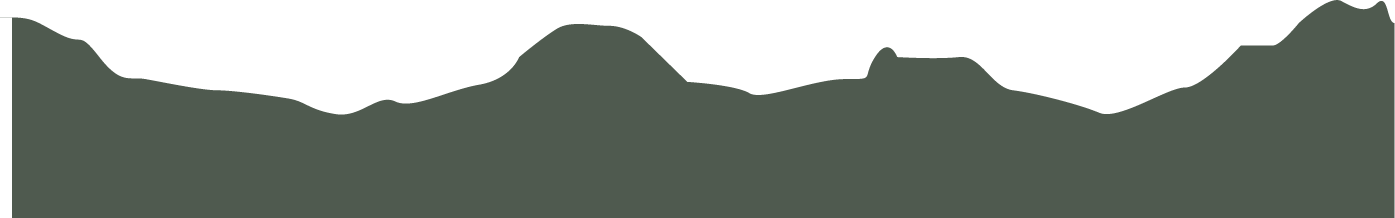
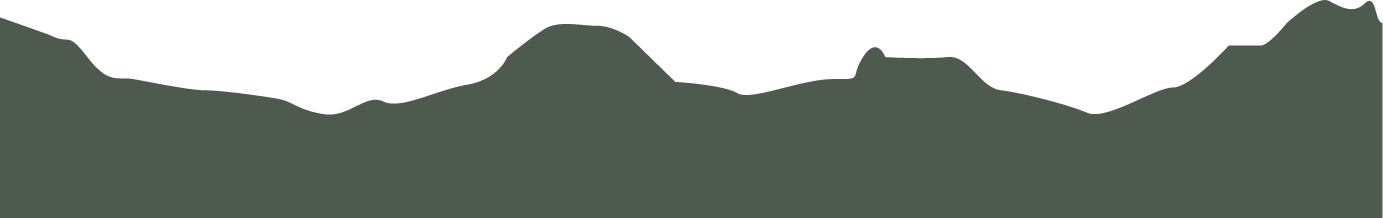
Adapative
Widths are percentages, always in center of browser.

diff --git a/css_animation/volcano_2.html b/css_animation/volcano_2.html
@@ -22,7 +22,7 @@
   filter: progid:DXImageTransform.Microsoft.gradient( startColorstr='#454fa0', endColorstr='#1b0009',GradientType=0 ); /* IE6-9 */
 
   height: 782px;
-  width: 1371px;
+  width: 100%;
 
   position: relative;
 }
@@ -38,20 +38,21 @@
 .stars{
   background: transparent url('img/stars.png') no-repeat center center;
   opacity: 0;
+  width: 100%;
 }
 
 .mountain{ background: transparent url('img/volcano.png') no-repeat bottom center; }
 .crater{
-  background: transparent url('img/crater.png') no-repeat 608px 262px;
+  background: transparent url('img/crater.png') no-repeat 50% 262px;
 }
 
 .smoke{
   background: #F00;
   position: absolute;
-    left: 648px;
+    left: 48%;
     top: 320px;
-  transform: translateX(50%);
 }
+
 .smoke ul li{
   border-radius: 50%;
   list-style: none;
@@ -128,8 +129,8 @@
   100%    {top: -300px; opacity: 0; left: 30px;}
 }
 
-.trees-01{ background: transparent url('img/trees2.png') no-repeat bottom center; }
-.trees-02{ background: transparent url('img/trees1.png') no-repeat bottom center; }
+.trees-01{ background: transparent url('img/trees2.png') repeat-x bottom center; }
+.trees-02{ background: transparent url('img/trees1.png') repeat-x bottom center; }
 
     </style>
   </head>
